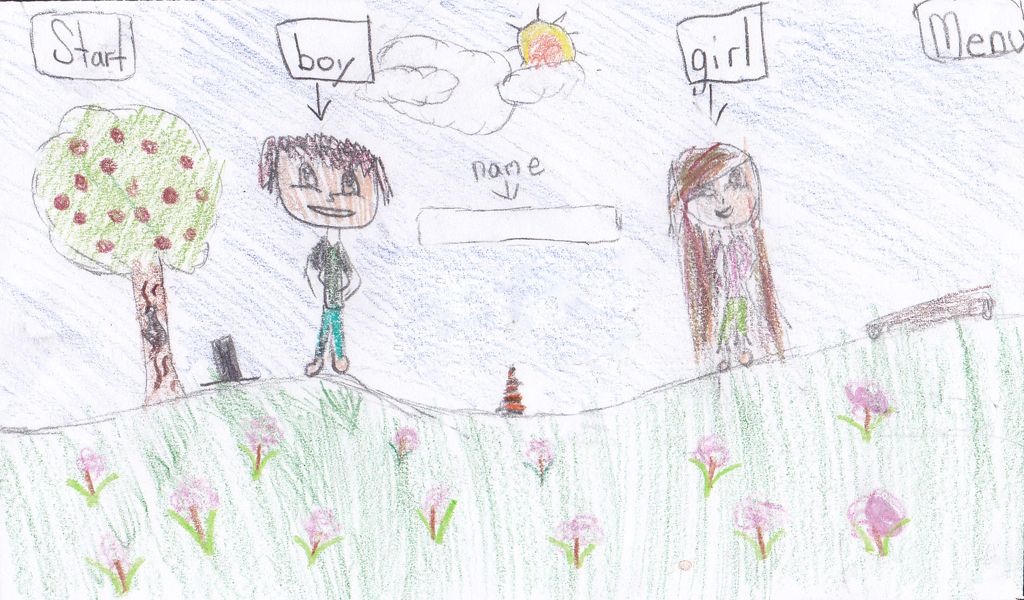
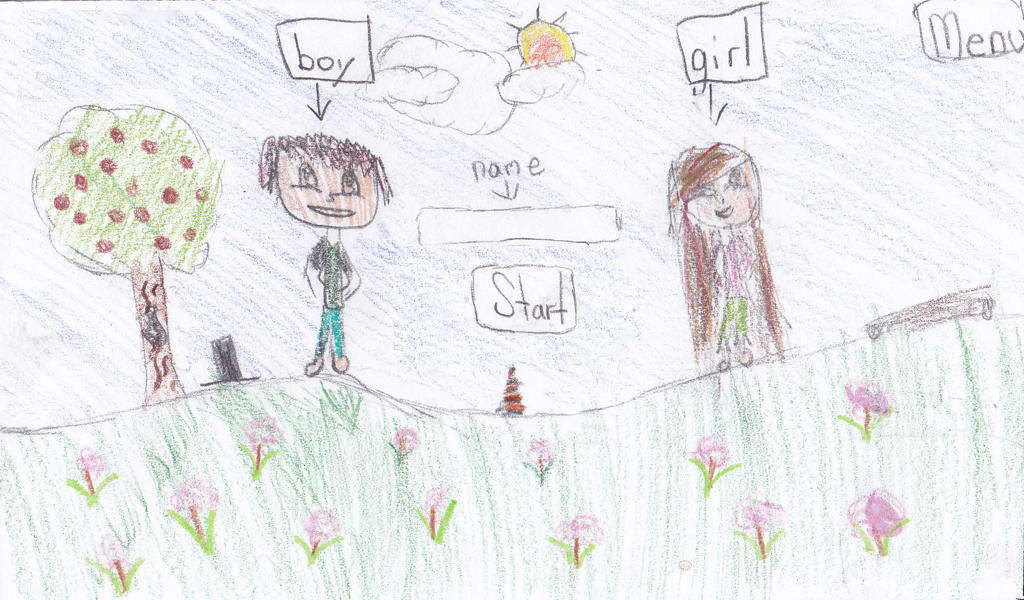
Week 9 Day 4 #2

Changed region(s): [[0.0312, 0.0, 0.1875, 0.15], [0.4375, 0.42, 0.5625, 0.57]]

diff --git a/indexStyle.css b/indexStyle.css
@@ -7,13 +7,24 @@ body{
 	border:2px solid black;
 }
 
-div{
+#loadScreen{
+	position: absolute;
+	left: 0px;
+	top:0px;
+	height:600px;
+	width:1024px;
+	background-image:url("welcomeScreen.jpg");
+	z-index:2;
+}
+
+#background{
 	position: absolute;
 	left: 0px;
 	top:0px;
 	height:600px;
 	width:1024px;
 	background-image:url("indexBackground.jpg");
+	z-index:1;
 }
 
 h1{
@@ -25,7 +36,7 @@ h1{
 input{
 	position: absolute;
 	border-radius:20px;
-	border: solid black 5px;
+	border: solid transparent 5px;
 }
 
 .colorToggle{
@@ -34,6 +45,7 @@ input{
 
 .gender{
 	position:absolute;
+	background: transparent;
 }
 
 #boy{
@@ -41,5 +53,35 @@ input{
 	left:260px;
 	width:130px;
 	height:400px;
+}
+
+#girl{
+	top:5px;
+	left:670px;
+	width:125px;
+	height:400px;
+	
+}
+
+#name{
+	left:420px;
+	top:205px;
+	width:195px;
+	height:40px;
+	border-radius:0px;
+	border: solid black 1px;
+	font-size:20px;
+}
+
+#submit{
+	left:460px;
+	top:260px;
+	height:80px;
+	width:125px;
 	background: transparent;
+}
+
+p{
+	position:absolute;
+	top:100px;
 }

diff --git a/startup.js b/startup.js
@@ -1,13 +1,33 @@
+var selected = "null";
+var name = "null";
 
 setGender = function(g){
-
+if (selected == "boy"){
+	if(g == "boy"){
+		g = "null";
+	}
+	else{
+		$("#boy").toggleClass('colorToggle')
+	}
+}
+else if(selected == "girl"){
+	if(g == "girl"){
+		g = "null";
+	}
+	else{
+		$("#girl").toggleClass('colorToggle')
+	}
+}	
 localStorage.gender = g;
+selected = g;
 
-document.getElementById("demo").innerHTML=localStorage.gender + "h";
+document.getElementById("demo").innerHTML=localStorage.gender;
 }
 
 setName = function(){
+name = document.getElementById("name").value;
 localStorage.name = document.getElementById("name").value;
+goToMain();
 }
 
 getPlayer = function(){
@@ -15,4 +35,13 @@ $('#demo').append(localStorage.gender)
 //document.getElementById("demo").innerHTML=localStorage.gender + "y";
 
 $('#demo').append(localStorage.name)
+}
+
+goToMain = function () {
+	if(selected !== "null" && name !=="null" || name !==""){
+		location.href= "mainMenu.html";
+	}
+	else{
+		alert("Name or Gender is not Selected!");
+	}
 }

diff --git a/index.html b/index.html
@@ -8,12 +8,21 @@
   </head>
   
   <body>
+	<div id="loadScreen">
+		<script>
+			setTimeout(function(){
+			$('#loadScreen').fadeOut(250, function(){ $(this).remove(); });
+			},3000);
+		</script>
+	</div>
 	<div id="background">
+		<script>
+		</script>
 		<h1 align="center">Choose Your Character!</h1>
 	    <input type="button" class="gender" id="boy" onclick=setGender("boy")>	
-	    <input type="button" class="gender" id="girl" value="Girl" onclick=setGender("girl")>		
+	    <input type="button" class="gender" id="girl" onclick=setGender("girl")>		
 		<input type="text" placeholder="Enter Your Name" maxlength="20" id="name">
-		<a href="mainMenu.html"><input type="submit" id="submit" value="Submit" onclick=setName()></a>
+		<input type="button" id="submit" onclick=setName()>
 		<p id="demo">hi</p>
 		
 		<script>

diff --git a/mainMenuStyle.css b/mainMenuStyle.css
@@ -61,7 +61,6 @@ h1{
 	height:120px;
 	width:140px;
 	background: transparent;
-    border: none !important;
 }
 
 #highScoreButton{
@@ -69,15 +68,14 @@ h1{
 	top:450px;
 	height:100px;
 	width:150px;
+	border: solid black 5px;
 }
 #storeButton{
-
 	left:550px;
 	top:420px;
 	height:60px;
 	width:120px;	
 	background: transparent;
-    border: none !important;
 }
 
 #startGame{
@@ -86,11 +84,11 @@ h1{
 	height:125px;
 	width:210px;
 	background: transparent;
-    border: none !important;
 }
 
 #startGame2{
 	top:150px;
+	border: solid black 5px;
 }
 
 input{
